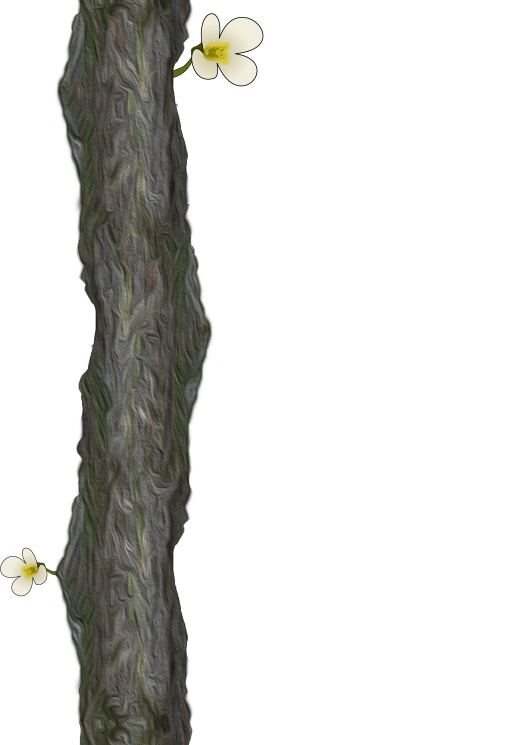
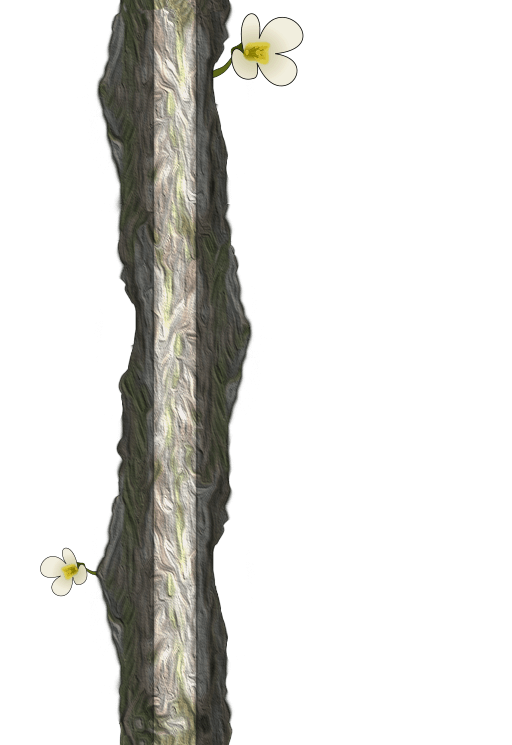
Non-responsive vine in place
Added the projects assets, the vine, landscape, project card place holders. Still need to go throgh and add responsive css and adjust as needed. Need a transition between the next section and the landscape.

Changed region(s): [[0.0, 0.0, 0.5938, 1.0]]

diff --git a/index.html b/index.html
@@ -113,9 +113,11 @@
                 </div>
             </div>
             <div class="about-text col s8 m7">
-                <p>TODO: Talk about using the technology for all things from websites to interactives, hardware demos,
+                <p class="flow-text">TODO: Talk about using the technology for all things from websites to interactives,
+                    hardware demos,
                     etc.</p>
-                <p>Lorem ipsum dolor sit amet, consectetur adipiscing elit. Integer varius lacinia varius. Nulla
+                <p class="flow-text">Lorem ipsum dolor sit amet, consectetur adipiscing elit. Integer varius lacinia
+                    varius. Nulla
                     facilisis lacus at risus varius, et pretium nisl fringilla. Donec tempus urna in lacus ullamcorper,
                     et lacinia eros malesuada. Praesent a mi massa. Suspendisse eu tempus libero. Proin sodales, metus
                     eget aliquet feugiat, tortor sapien convallis diam, sed sagittis enim est non arcu. Nunc nec varius
@@ -141,7 +143,8 @@
                     <div class="col s11">
                         <h1><span class="lg">T</span> his Website</h1>
                         <hr>
-                        <p>Lorem ipsum dolor sit amet, consectetur adipiscing elit. Integer varius lacinia varius. Nulla
+                        <p class="flow-text">Lorem ipsum dolor sit amet, consectetur adipiscing elit. Integer varius
+                            lacinia varius. Nulla
                             facilisis lacus at risus varius, et pretium nisl fringilla. Donec tempus urna in lacus
                             ullamcorper,
                             et lacinia eros malesuada. Praesent a mi massa. Suspendisse eu tempus libero. Proin sodales,
@@ -167,21 +170,83 @@
     </div>
 </section>
 <section class="projects">
-    <div class="container">
-        <div class="row">
-            <div class="col s12">
-                <h1><span class="lg">A</span> Few Projects</h1>
-                <hr>
-                <p>Below is an outline showing a few of my favorite projects and a history of my professional time.
-                    Climb down and take a look around on the way. Scroll to see the projects.</p>
+    <div class="vine-repeat">
+        <div class="vine-top">
+            <div class="container">
+                <div class="row">
+                    <div class="col s12">
+                        <h1><span class="lg">A</span> Few Projects</h1>
+                        <hr>
+                        <p class="flow-text">Below is an outline showing a few of my favorite projects and a history of
+                            my professional
+                            time.
+                            Climb down and take a look around on the way. Scroll to see the projects.</p>
+                    </div>
+                </div>
+                <div class="row">
+                    <div class="col s12">
+                        <ul class="projects-listing">
+                            <li class="gocoop">
+                                <p class="z-depth-1 hoverable">A long, long time ago, before the &quot;dot com bubble&quot;
+                                    burst I worked at GoCo-op, one of the early B2B companies for Hotels, etc.</p>
+                            </li>
+                            <li>
+                                <div class="card hoverable">
+                                    <div class="card-image waves-effect waves-block waves-light">
+                                        <img class="activator" src="img/projects-squarefactor.jpg">
+                                    </div>
+                                    <div class="card-content">
+                                        <a class="btn waves-effect waves-light blue darken-4 activator right">See More</a>
+                                        <h5>2001</h5>
+                                        <h6>MindComet</h6>
+                                        <p class="flow-text">TODO: Description text in the card.</p>
+                                    </div>
+                                    <div class="card-reveal">
+                                        <span class="card-title grey-text text-darken-4">
+                                            <h5>MindComet</h5>
+
+                                            <i class="material-icons right">close</i>
+                                        </span>
+                                        <p class="flow-text">
+                                            TODO: Here is some more information about this product that is only revealed once
+                                            clicked on.</p>
+                                    </div>
+                                </div>
+                            </li>
+                            <li>
+                                <div class="card hoverable">
+                                    <div class="card-image waves-effect waves-block waves-light">
+                                        <img class="activator" src="img/projects-squarefactor.jpg">
+                                    </div>
+                                    <div class="card-content">
+                                        <a class="btn waves-effect waves-light blue darken-4 activator right">See More</a>
+                                        <h5>2004</h5>
+                                        <h6>Squarefactor</h6>
+                                        <p class="flow-text">TODO: Description text in the card.</p>
+                                    </div>
+                                    <div class="card-reveal">
+                                        <span class="card-title grey-text text-darken-4">
+                                            <h5>Squarefactor</h5>
+
+                                            <i class="material-icons right">close</i>
+                                        </span>
+                                        <p class="flow-text">
+                                            TODO: Here is some more information about this product that is only revealed once
+                                            clicked on.</p>
+                                    </div>
+                                </div>
+                            </li>
+                        </ul>
+                    </div>
+                </div>
             </div>
         </div>
     </div>
-    <div class="projects-scenery">
-        <div class="vine-top"></div>
-        <div class="vine-repeat">
-            <div class=""></div>
-        </div>
+    <div class="vine-landscape-gradient"></div>
+    <div class="vine-base"></div>
+
+    <div class="vine-landscape">
+
     </div>
 </section>
 <section class="game">
@@ -190,7 +255,8 @@
             <div class="col s11">
                 <h1><span class="lg">T</span> hat Game And Its App</h1>
                 <hr>
-                <p>Lorem ipsum dolor sit amet, consectetur adipiscing elit. Integer varius lacinia varius. Nulla
+                <p class="flow-text">Lorem ipsum dolor sit amet, consectetur adipiscing elit. Integer varius lacinia
+                    varius. Nulla
                     facilisis lacus at risus varius, et pretium nisl fringilla. Donec tempus urna in lacus ullamcorper,
                     et lacinia eros malesuada. Praesent a mi massa. Suspendisse eu tempus libero. Proin sodales, metus
                     eget aliquet feugiat, tortor sapien convallis diam, sed sagittis enim est non arcu. Nunc nec varius

diff --git a/css/main.css b/css/main.css
@@ -95,6 +95,13 @@ textarea {
    Author's custom styles
    ========================================================================== */
 
+/* Material css overrides */
+.card{
+    opacity: 0.9;
+    -moz-opacity: 0.9;
+    color: #000;
+}
+
 /*
 TODO: Text size using vw?
 */
@@ -124,7 +131,6 @@ h1{ /* TODO: responsive */
 }
 
 p{
-    font-size: 24px;
     text-align: justify;
 }
 
@@ -374,9 +380,7 @@ section.site .ripples{
 .water-floor-items{
     position: absolute;
     bottom: 30px;
-    /*left: 50%;
-    margin-left: -120px;*/
-    right: 350px;
+    left: 32vw;
     width: 457px;
     height: 242px;
     background: url("../img/water-bottom-items.png") repeat-x;
@@ -421,52 +425,94 @@ section.projects{
     background: -o-linear-gradient(top, #1148a2, #bbdefb);
 }
 
-section.projects .container{
-    padding-top: 210px;
-}
-
-.projects-scenery{
-    margin-top: -335px;
-}
-
-.vine-top{
-    /*position: absolute;
-    top: 170px;*/
-    /*margin-top: 170px;*/
-    background: url("../img/vine-top.png") no-repeat;
-    background-position: 35vw 0;/* TODO: responsive */
-    /*background-size: 50vw;*/
-    /*background-size: contain;*/
-    width: 100%;
-    height: 636px;
-    /*min-height: 430px;*/
-    max-height: 512px;
-}
-
-.vine-repeat{
-    /*position: absolute;
-    top: 682px;
-    left: 32vw;*/
-    /*margin-top: 199px;
-    margin-left: 196px;*/
-    background: url("../img/vine-repeat.png") repeat-y;
-    background-position: 35vw 0;
-    width: 100%;
-    height: 2200px;
-}
-
 section.projects h1+hr+p{
     padding-left: 130px;
 }
 
-.projects-listing{
-    position: absolute;
-    min-height: 500px;
+section.projects .container{
+    padding-top: 210px;
 }
 
+.vine-top{ /* TODO: responsive */
+    background: url("../img/vine-top.png") 35vw 0 no-repeat;
+}
+
+.vine-repeat{ /* TODO: responsive */
+    background: url("../img/vine-repeat.png") 35vw 0 repeat-y;
+}
+
+.vine-base{ /* TODO: responsive */ /* TODO: adjust bottom to avoid cutoff flower as needed */
+    width: 100%;
+    height: 510px;
+    margin-top: -55px;
+    background: url("../img/vine-base.png") 35vw 0 no-repeat;
+}
+
+.vine-landscape{ /* TODO: responsive */
+    position: relative;
+    z-index: 2;
+    margin-top: -200px; /** TODO: Lower this for smaller browser widths */
+    width: 100%;
+    height: 629px;
+    background: url("../img/vine-landscape.png") no-repeat;
+    background-size: cover;
+}
+
+.vine-landscape-gradient{
+    position: absolute;
+    z-index: 1;
+    bottom: 300px;
+    height: 40rem;
+    width: 100%;
+    /* Permalink - use to edit and share this gradient: http://colorzilla.com/gradient-editor/#ffffff+0,000000+100&0+25,1+100 */
+    background: -moz-linear-gradient(top,  rgba(255,255,255,0) 0%, rgba(191,191,191,0) 25%, rgba(0,0,0,1) 100%); /* FF3.6-15 */
+    background: -webkit-linear-gradient(top,  rgba(255,255,255,0) 0%,rgba(191,191,191,0) 25%,rgba(0,0,0,1) 100%); /* Chrome10-25,Safari5.1-6 */
+    background: linear-gradient(to bottom,  rgba(255,255,255,0) 0%,rgba(191,191,191,0) 25%,rgba(0,0,0,1) 100%); /* W3C, IE10+, FF16+, Chrome26+, Opera12+, Safari7+ */
+    filter: progid:DXImageTransform.Microsoft.gradient( startColorstr='#00ffffff', endColorstr='#000000',GradientType=0 ); /* IE6-9 */
+}
+
+.projects-listing{
+    margin-top: 0;
+    height: 3000px;
+}
+
+.projects-listing .gocoop .z-depth-1{
+    color: #000;
+    background-color: #fff;
+    padding: 0.82rem 0.75rem;
+    border: 1px solid #a2c0d9;
+}
+
+.projects-listing .z-depth-1 p{
+    margin-top: 0;
+    margin-bottom: 0;
+}
+
+.projects-listing .card{
+    margin-top: 10rem;
+}
+
+.projects-listing .gocoop{ /* TODO: responsive */
+    /*width: 521px;*/
+    /*height: 286px;*/
+    position: relative;
+    height: 23vw;
+    max-height: 286px;
+    min-height: 150px;
+    background: transparent url("../img/projects-gocoop.png") 30vw no-repeat;
+    background-size: contain;
+}
+
+.projects-listing .gocoop p{
+    position: absolute;
+    top: 24%;
+    width: 27vw;
+    opacity: 0.9;
+    -moz-opacity: 0.9;
+    font-size: 1.8vw;
+}
 
 section.game{
-    min-height: 300px;
     background: #000;
     color: #fdd835;
 }
